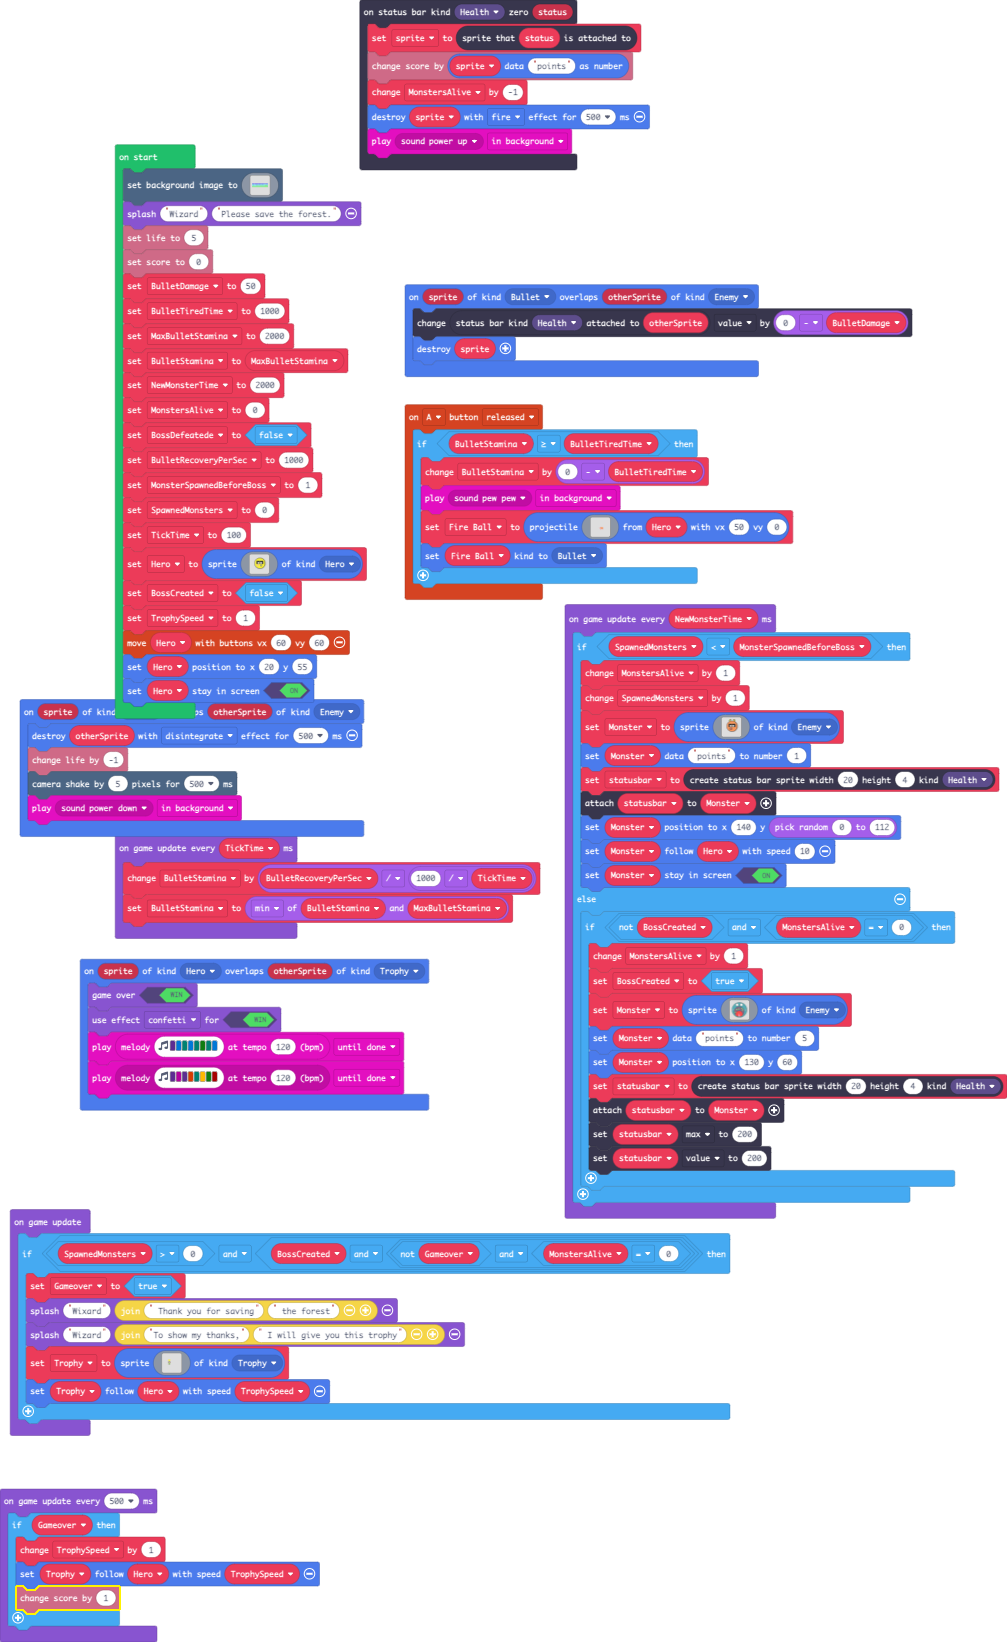
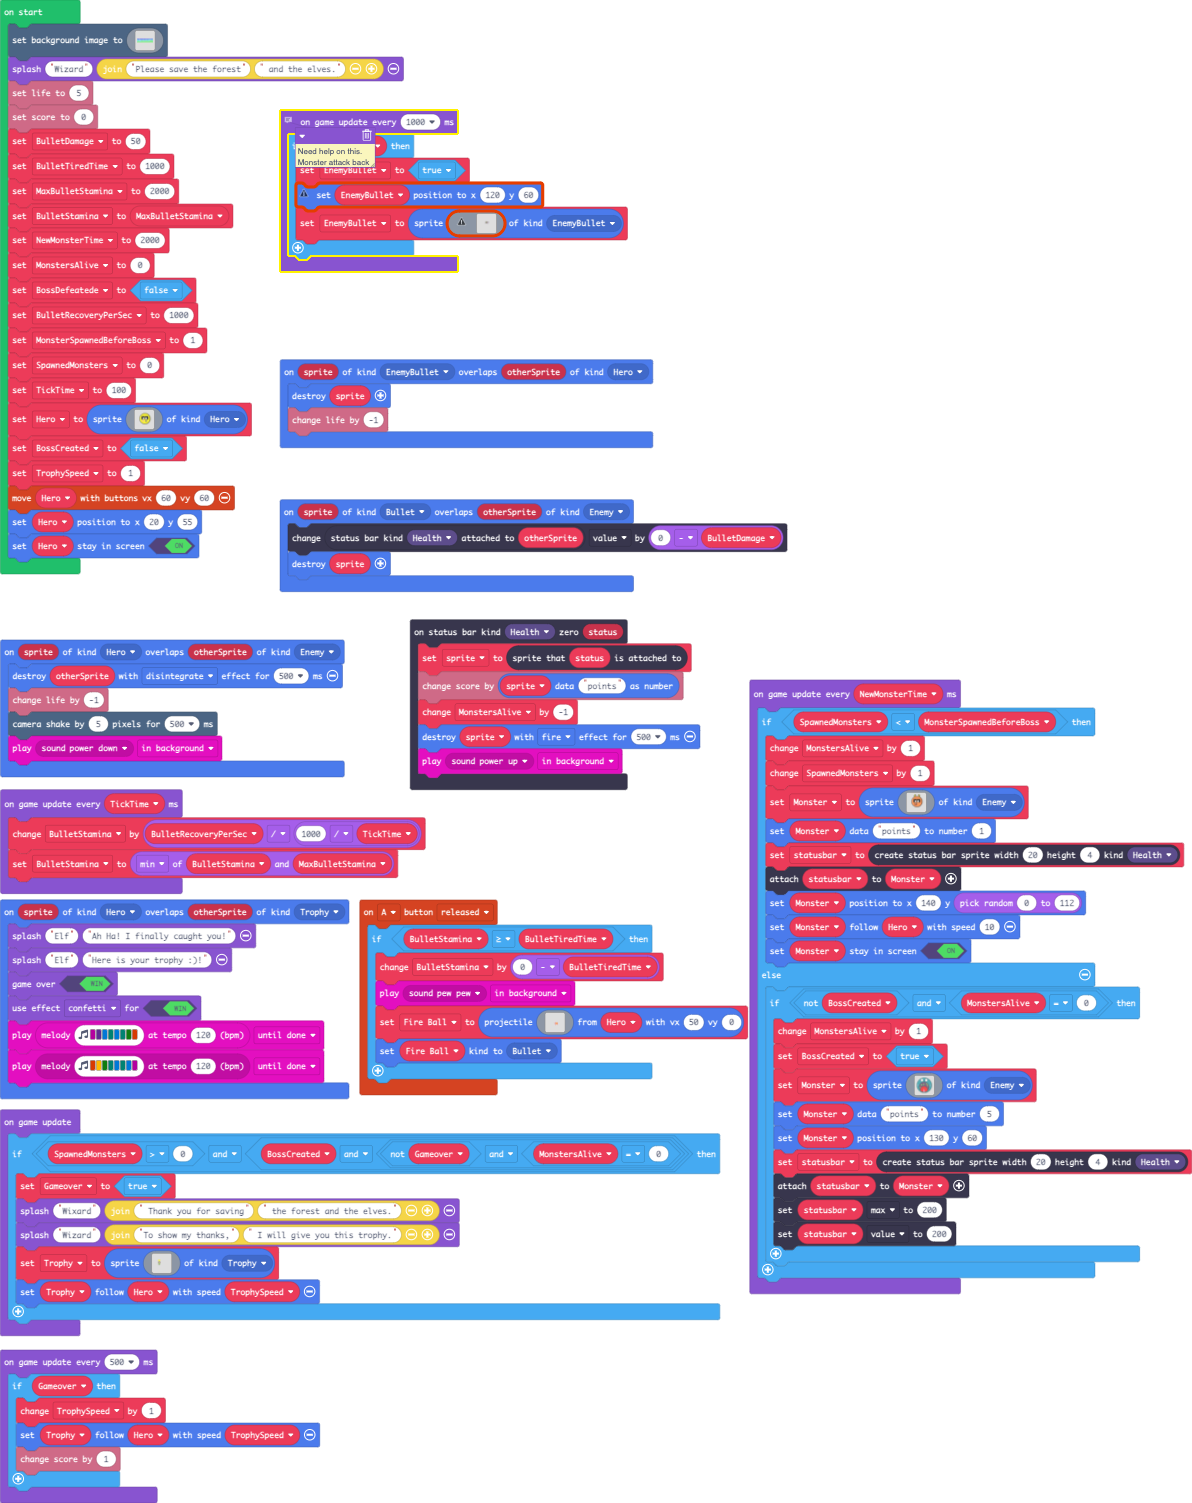
Update main.blocks, main.ts

diff --git a/main.ts b/main.ts
@@ -3,16 +3,19 @@ namespace SpriteKind {
     export const Bullet = SpriteKind.create()
     export const PowerUpOne = SpriteKind.create()
     export const Trophy = SpriteKind.create()
+    export const EnemyBullet = SpriteKind.create()
 }
 sprites.onOverlap(SpriteKind.Bullet, SpriteKind.Enemy, function (sprite, otherSprite) {
     statusbars.getStatusBarAttachedTo(StatusBarKind.Health, otherSprite).value += 0 - BulletDamage
     sprites.destroy(sprite)
 })
 sprites.onOverlap(SpriteKind.Hero, SpriteKind.Trophy, function (sprite, otherSprite) {
+    game.splash("Elf", "Ah Ha! I finally caught you!")
+    game.splash("Elf", "Here is your trophy :)!")
     game.gameOver(true)
     game.setGameOverEffect(true, effects.confetti)
-    music.play(music.stringPlayable("D E F E F G F E ", 120), music.PlaybackMode.UntilDone)
-    music.play(music.stringPlayable("D C D B F A G C5 ", 120), music.PlaybackMode.UntilDone)
+    music.play(music.stringPlayable("C D E F E F G B ", 120), music.PlaybackMode.UntilDone)
+    music.play(music.stringPlayable("B A G F E F E C ", 120), music.PlaybackMode.UntilDone)
 })
 sprites.onOverlap(SpriteKind.Hero, SpriteKind.Enemy, function (sprite, otherSprite) {
     sprites.destroy(otherSprite, effects.disintegrate, 500)
@@ -86,8 +89,13 @@ controller.A.onEvent(ControllerButtonEvent.Released, function () {
         Fire_Ball.setKind(SpriteKind.Bullet)
     }
 })
+sprites.onOverlap(SpriteKind.EnemyBullet, SpriteKind.Hero, function (sprite, otherSprite) {
+    sprites.destroy(sprite)
+    info.changeLifeBy(-1)
+})
 let statusbar: StatusBarSprite = null
 let Monster: Sprite = null
+let EnemyBullet = false
 let Trophy: Sprite = null
 let Gameover = false
 let Fire_Ball: Sprite = null
@@ -218,7 +226,7 @@ scene.setBackgroundImage(img`
     77777777777777777777777777777777777777777777777777777777777777777777777777777777777777777777777777777777777777777777777777777777777777777777777777777777777777777777777777777777777777777777777777777777777777777777777777777777777777777777777777777777777777777777777777777777777777777777777777777777777777777777777777777777777777777777777777777777777777777777777777777777777777777777777777777777777777777777777777777777777777777777777777777777777777777777777777777777777777777777777777777777777777777777777777777777
     77777777777777777777777777777777777777777777777777777777777777777777777777777777777777777777777777777777777777777777777777777777777777777777777777777777777777777777777777777777777777777777777777777777777777777777777777777777777777777777777777777777777777777777777777777777777777777777777777777777777777777777777777777777777777777777777777777777777777777777777777777777777777777777777777777777777777777777777777777777777777777777777777777777777777777777777777777777777777777777777777777777777777777777777777777777
     `)
-game.splash("Wizard", "Please save the forest.")
+game.splash("Wizard", "Please save the forest" + " and the elves.")
 info.setLife(5)
 info.setScore(0)
 BulletDamage = 50
@@ -292,8 +300,8 @@ Hero.setStayInScreen(true)
 game.onUpdate(function () {
     if (SpawnedMonsters > 0 && (BossCreated && (!(Gameover) && MonstersAlive == 0))) {
         Gameover = true
-        game.splash("Wixard", " Thank you for saving" + " the forest")
-        game.splash("Wizard", "To show my thanks," + " I will give you this trophy")
+        game.splash("Wixard", " Thank you for saving" + " the forest and the elves.")
+        game.splash("Wizard", "To show my thanks," + " I will give you this trophy.")
         Trophy = sprites.create(img`
             ....................................................................................................
             ....................................................................................................
@@ -397,6 +405,66 @@ game.onUpdate(function () {
             ....................................................................................................
             `, SpriteKind.Trophy)
         Trophy.follow(Hero, TrophySpeed)
+    }
+})
+// Need help on this.
+// Monster attack back
+game.onUpdateInterval(1000, function () {
+    if (BossCreated) {
+        EnemyBullet = true
+        EnemyBullet.setPosition(120, 60)
+        EnemyBullet = sprites.create(img`
+            ......................................................................
+            ......................................................................
+            ......................................................................
+            ......................................................................
+            ......................................................................
+            ......................................................................
+            ......................................................................
+            ......................................................................
+            ......................................................................
+            ......................................................................
+            ......................................................................
+            ......................................................................
+            ......................................................................
+            ......................................................................
+            ......................................................................
+            ......................................................................
+            .................................c....................................
+            .......................................c..............................
+            ................................cccc.....c............................
+            ...............................ceeeecc..c.............................
+            ..............................ce7777eecc.c.c..c.......................
+            ..............................ce777777eec.............................
+            ..............................ce7777eecc..............................
+            ...............................ceeeecc......c.........................
+            ................................cccc.....c............................
+            .............................c......c..c..............................
+            ..............................c.........c.............................
+            .......................................c..............................
+            ......................................................................
+            ......................................................................
+            ......................................................................
+            ......................................................................
+            ......................................................................
+            ......................................................................
+            ......................................................................
+            ......................................................................
+            ......................................................................
+            ......................................................................
+            ......................................................................
+            ......................................................................
+            ......................................................................
+            ......................................................................
+            ......................................................................
+            ......................................................................
+            ......................................................................
+            ......................................................................
+            ......................................................................
+            ......................................................................
+            ......................................................................
+            ......................................................................
+            `, SpriteKind.EnemyBullet)
     }
 })
 game.onUpdateInterval(TickTime, function () {
